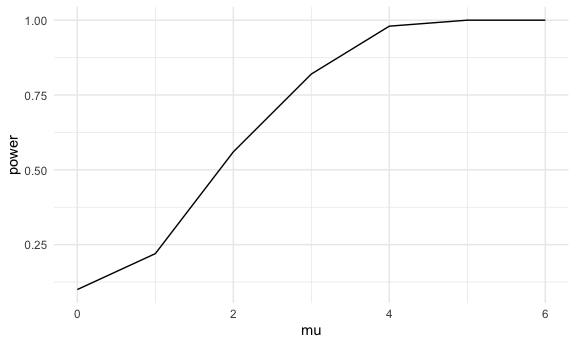
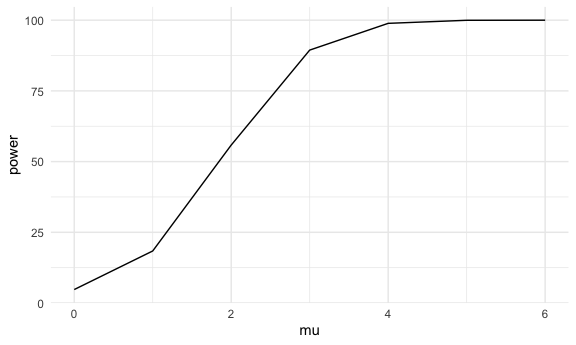
final 2 graphs and cleaning up file

diff --git a/p8105_hw5_des2190.md b/p8105_hw5_des2190.md
@@ -52,18 +52,6 @@ strong increase between group 5 and 6.
 
 ## Problem 3
 
-When designing an experiment or analysis, a common question is whether
-it is likely that a true effect will be detected – put differently,
-whether a false null hypothesis will be rejected. The probability that a
-false null hypothesis is rejected is referred to as power, and it
-depends on several factors, including: the sample size; the effect size;
-and the error variance. In this problem, you will conduct a simulation
-to explore power in a one-sample t-test.
-
-First set the following design elements:
-
-Fix n=30 Fix σ=5 Set μ=0 . Generate 5000 datasets from the model
-
 ``` r
 fun = function(n = 30, mu = 0, sigma = 5){
   
@@ -81,11 +69,11 @@ fun = function(n = 30, mu = 0, sigma = 5){
 
 }
 
-sample_size = 50
+sample_size = 5000
 
 output = vector("list", 50)
 
-for (i in 1:50) {
+for (i in 1:5000) {
   output[[i]] = vector("list", 7)
   for (j in 0:6)
     output[[i]][[j + 1]] = fun(n = 30, mu = j)
@@ -101,8 +89,7 @@ output_df =
   mutate(
     power = n / 50
   ) %>%
-  filter(rejected) %>% 
-  select(-rejected)
+  filter(rejected)
 
 output_df %>%
 ggplot(aes(x = mu, y = power), alpha = 0.5) + 
@@ -110,13 +97,48 @@ ggplot(aes(x = mu, y = power), alpha = 0.5) +
 ```
 
 <img src="p8105_hw5_des2190_files/figure-gfm/unnamed-chunk-2-1.png" width="90%" />
+The general association is positive. In general the larger the effect
+size, the stronger the power.
 
-Make a plot showing the proportion of times the null was rejected (the
-power of the test) on the y axis and the true value of μ on the x axis.
-Describe the association between effect size and power. Make a plot
-showing the average estimate of μ̂ on the y axis and the true value of μ
-on the x axis. Make a second plot (or overlay on the first) the average
-estimate of μ̂ only in samples for which the null was rejected on the y
-axis and the true value of μ on the x axis. Is the sample average of μ̂
-across tests for which the null is rejected approximately equal to the
-true value of μ ? Why or why not?
+``` r
+output_df2 =
+  output %>%
+  bind_rows() %>%
+  mutate(
+    rejected = ifelse(p.value < 0.05, T, F)) %>%
+  group_by(mu) %>%
+  mutate(mean = mean(estimate)) %>%
+  select(mu, mean) %>%
+  group_by(mu, mean)
+
+output_df2 %>%
+  ggplot(aes(x = mu, y = mean), alpha = 0.5) + 
+    geom_line() + labs(title = "Plot of mu and average estimate of mu hat, for all samples",
+        x = "true value of mu", y = "average estimate of mu hat")
+```
+
+<img src="p8105_hw5_des2190_files/figure-gfm/unnamed-chunk-3-1.png" width="90%" />
+
+``` r
+output_df3 =
+  output %>%
+  bind_rows() %>%
+  mutate(
+    rejected = ifelse(p.value < 0.05, T, F)) %>%
+  group_by(mu) %>%
+  mutate(mean = mean(estimate)) %>%
+  select(mu, mean, rejected) %>%
+  filter(rejected)
+
+output_df3 %>%
+  ggplot(aes(x = mu, y = mean), alpha = 0.5) + 
+    geom_line() + labs(title = "Plot of mu and average estimate of mu hat, only for rejected samples",
+        x = "true value of mu", y = "average estimate of mu hat")
+```
+
+<img src="p8105_hw5_des2190_files/figure-gfm/unnamed-chunk-3-2.png" width="90%" />
+
+### Is the sample average of μ̂ across tests for which the null is rejected approximately equal to the true value of μ? Why or why not?
+
+Yes, they are equal and we know this because the slope appears to be
+equal to 1 on the graph.
